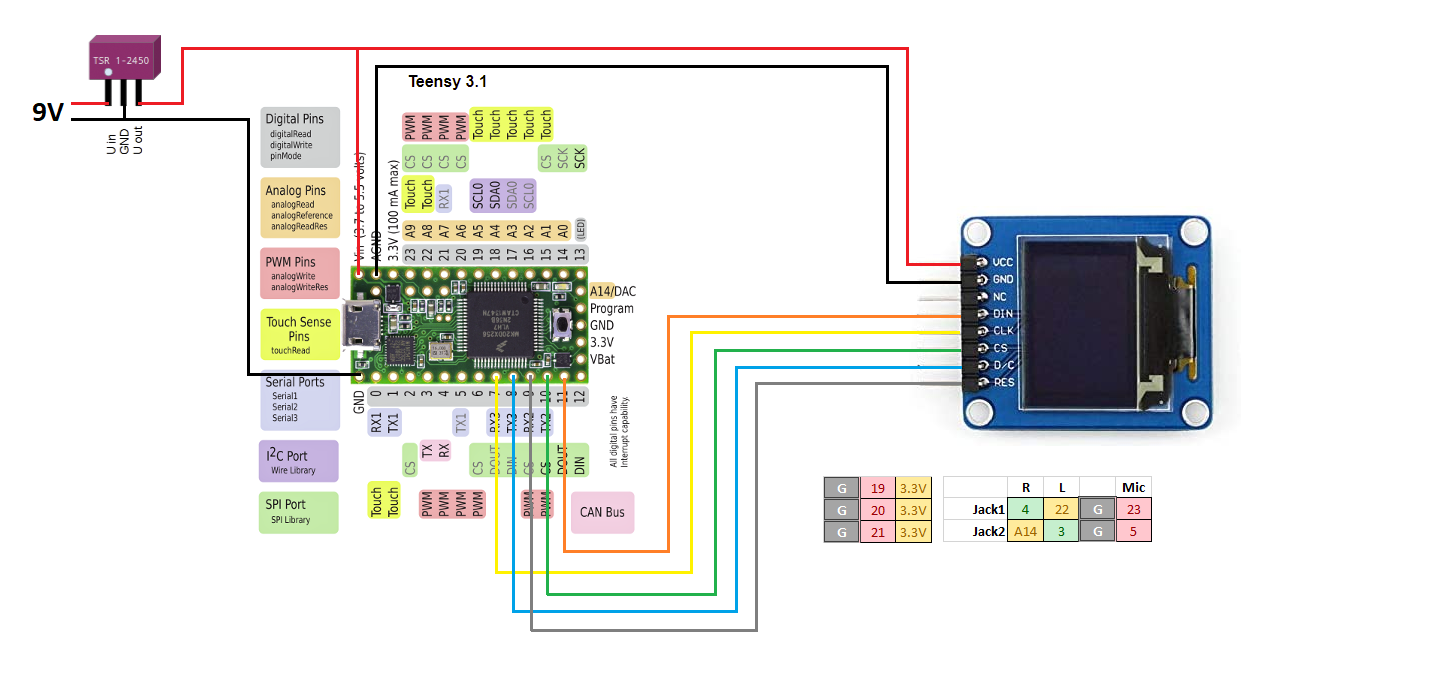
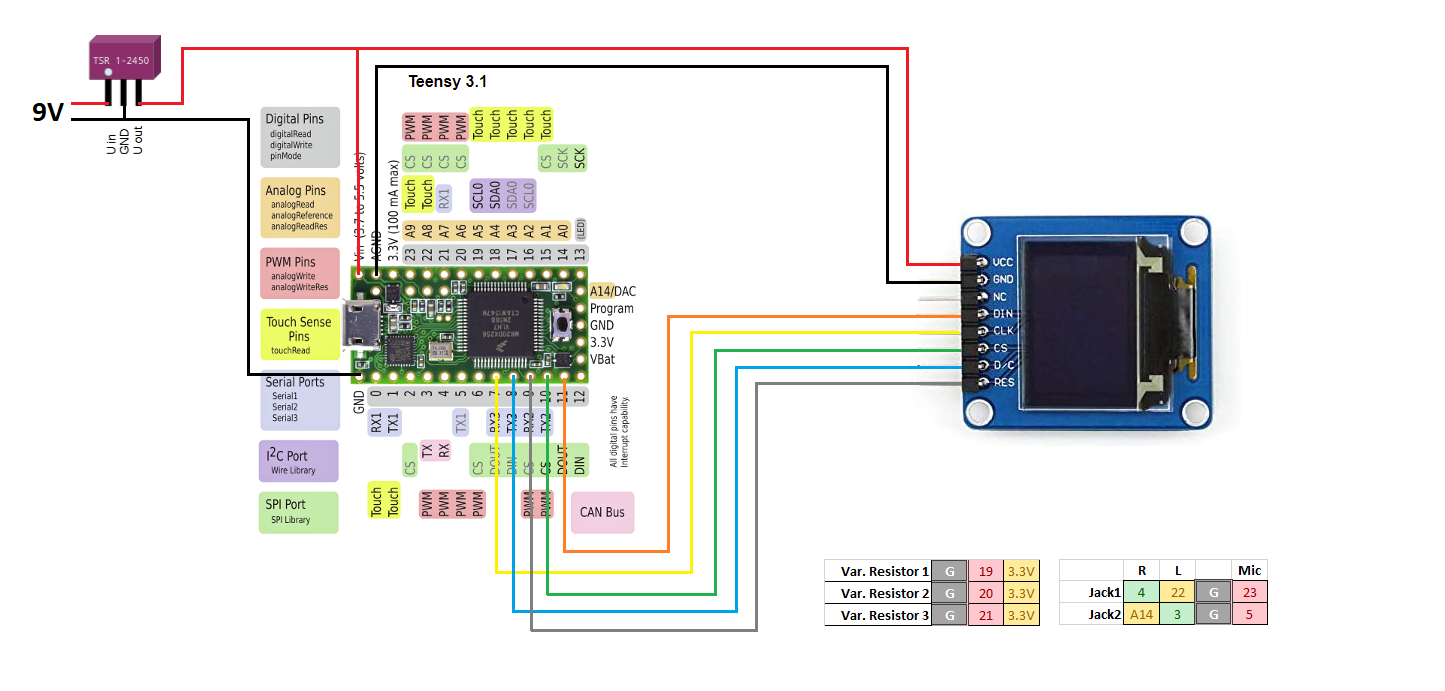
readme.md

Changed region(s): [[0.5606, 0.6686, 0.9031, 0.9117]]

diff --git a/README.md b/README.md
@@ -1,1 +1,12 @@
 # modulator
+
+Simple signal modulator based on input PWM signal to variate output frequency. Could be used without input.
+Working from 9V battery.
+
+![alt tag](https://github.com/mcfly722/modulator/blob/main/schema.png?raw=true)
+
+<b>Jack 1</b> - input (reading PWM signal)<br>
+<b>Jack 2</b> - output (gives signal with required frequency)<br>
+<br>
+<b>Var. Resistor 1,2</b> - used for adjust output frequency. If you require to control frequency from input PWM set this frequency to 0.
+<b>Var. Resistor 3</b> - control signal length
